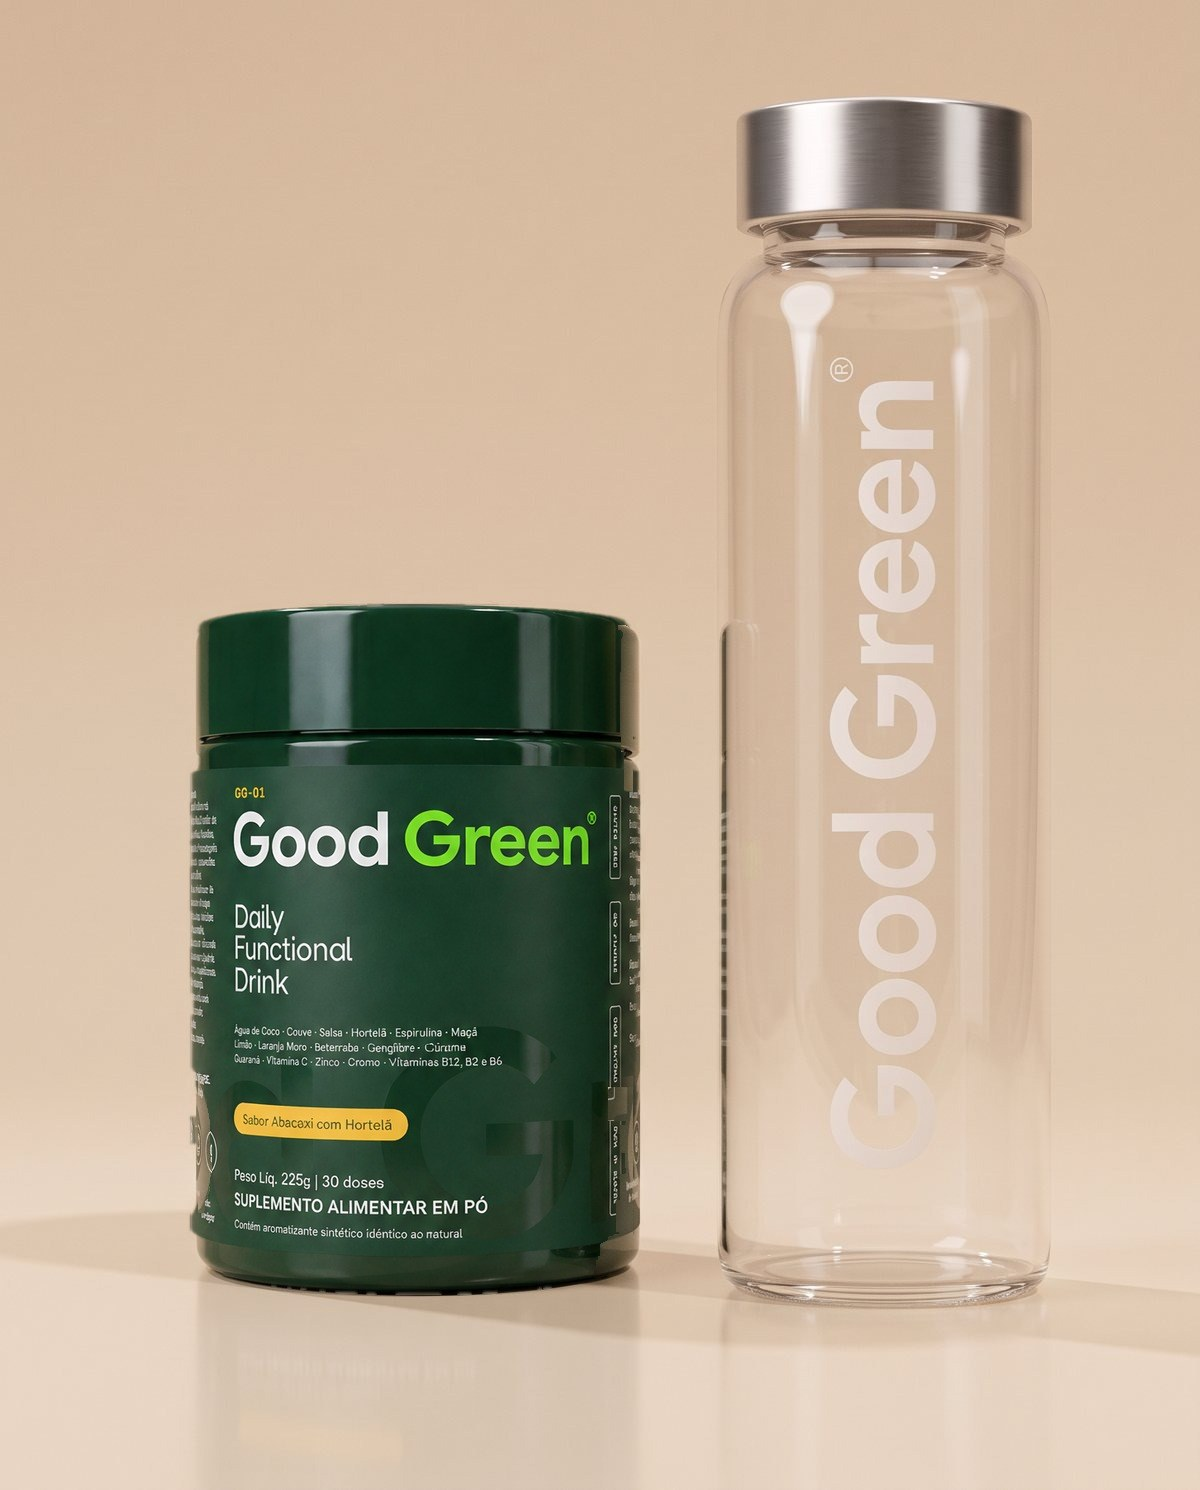
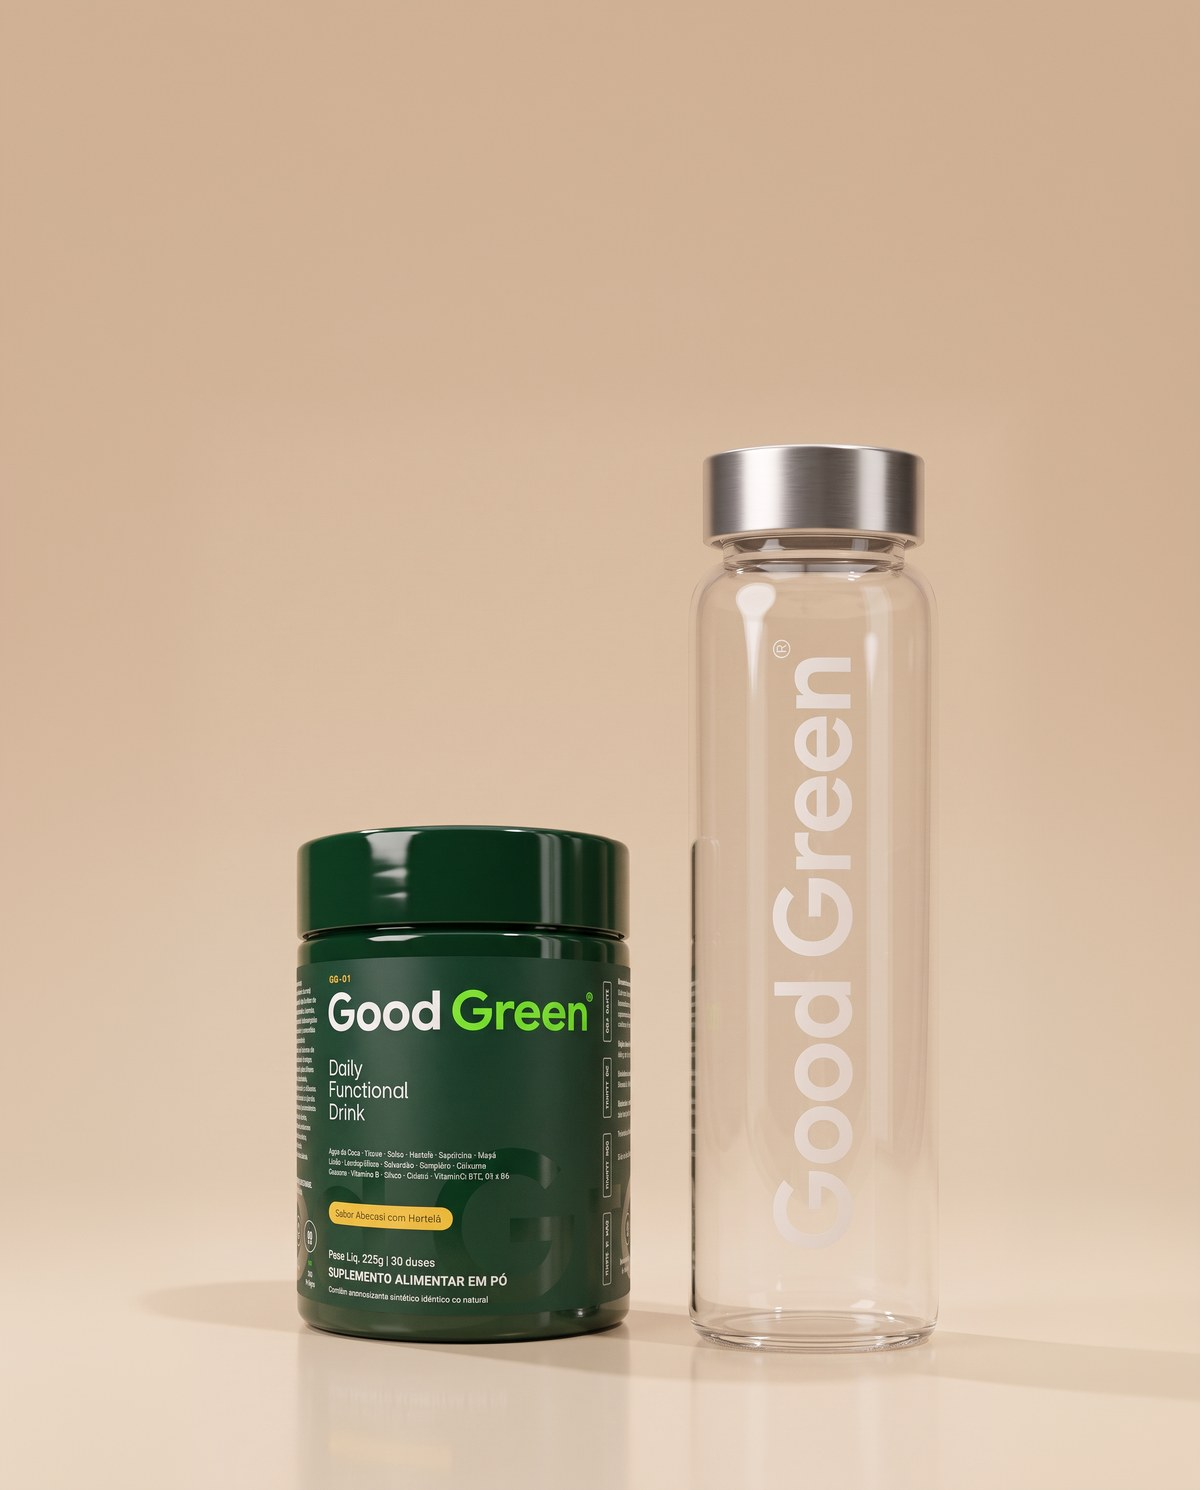
Mobile: fotos enquadradas pelo pote, kit trimestral com 3 potes, quiz como diagnostico
- Celular: fotos com pote na lateral (mesa escura, cafe da manha, banners,
  como usar) ganham object-position pelo pote em vez do centro.
- LP 3 potes: cartao do kit trimestral mostra 3 potes e a garrafa.
- Kit pote + garrafa: foto nova (versao integrada do Figma).
- ST05 volta para a foto original, como no Figma.
- Quiz: etapa de contato vira 'Seu diagnostico esta pronto'; a garrafa
  fica so no resultado.

Changed region(s): [[0.1542, 0.0617, 0.8633, 0.9262], [0.6475, 0.7718, 0.6783, 0.8027]]

diff --git a/quiz.html b/quiz.html
@@ -5,8 +5,8 @@
 <meta name="viewport" content="width=device-width,initial-scale=1">
 <title>Good Green · Barriga estufada, intestino preso, cansaço? Responda e libere a garrafa de brinde</title>
 <meta name="description" content="Responda 4 perguntas sobre o que incomoda no seu dia e libere a garrafa de vidro de brinde no seu primeiro pedido de Good Green.">
-<link rel="stylesheet" href="assets/css/site.css?v=202610251800">
-<link rel="stylesheet" href="assets/css/lp.css?v=202610261600">
+<link rel="stylesheet" href="assets/css/site.css?v=202610261800">
+<link rel="stylesheet" href="assets/css/lp.css?v=202610261800">
 </head>
 <body data-nav="claro" data-page="lp" data-lp="quiz">
 
@@ -70,19 +70,20 @@
     </section>
 
     <section class="qz-passo">
-      <h2>Libere a garrafa de vidro de brinde.</h2>
-      <p class="sub">Deixe seu contato e receba o link com a garrafa de vidro aplicada no seu primeiro pedido, mais o seu resultado.</p>
-      <div class="qz-brinde">
-        <div><img src="assets/img/garrafa-vidro-vazia.jpg" alt=""><div><b>Garrafa de vidro</b><small>Grátis no 1º pedido</small></div></div>
-        <div><img src="assets/img/pote-estudio-claro.jpg" alt=""><div><b>Frete grátis</b><small>No plano trimestral</small></div></div>
-      </div>
+      <h2>Seu diagnóstico está pronto.</h2>
+      <p class="sub">Deixe seu nome e contato para ver o resultado. Ele também chega no seu WhatsApp e no seu e-mail.</p>
+      <ul class="qz-entrega">
+        <li><span class="ok"><i data-ic="check"></i></span>Sua nota de rotina verde, de 0 a 10</li>
+        <li><span class="ok"><i data-ic="check"></i></span>Um plano de 30 dias para o que mais incomoda você</li>
+        <li><span class="ok"><i data-ic="check"></i></span>A dose e o horário que combinam com a sua rotina</li>
+      </ul>
       <form data-qz-form>
         <div class="qz-campos">
           <input type="text" name="nome" placeholder="Seu nome" autocomplete="name" required>
           <input type="tel" name="whatsapp" placeholder="WhatsApp com DDD" inputmode="tel" autocomplete="tel" required>
           <input type="email" name="email" placeholder="Seu e-mail" autocomplete="email" required>
         </div>
-        <button class="btn btn-escuro btn-bloco" type="submit">Liberar minha garrafa <span class="seta">→</span></button>
+        <button class="btn btn-escuro btn-bloco" type="submit">Ver meu resultado <span class="seta">→</span></button>
       </form>
       <div class="qz-pe" style="justify-content:flex-start"><a href="#" class="volta" data-volta>Voltar</a></div>
       <p class="qz-privacidade">Você recebe o aviso do lançamento e as ofertas da marca por WhatsApp e e-mail. Sem spam, e dá para sair quando quiser.</p>

diff --git a/lp-3-potes.html b/lp-3-potes.html
@@ -5,8 +5,8 @@
 <meta name="viewport" content="width=device-width,initial-scale=1">
 <title>Good Green · 3 potes e a garrafa de vidro de brinde</title>
 <meta name="description" content="Assinatura trimestral: 3 potes de Good Green a cada 90 dias, frete grátis e a garrafa de vidro de brinde no primeiro pedido. Sabor abacaxi com hortelã.">
-<link rel="stylesheet" href="assets/css/site.css?v=202610251800">
-<link rel="stylesheet" href="assets/css/lp.css?v=202610261600">
+<link rel="stylesheet" href="assets/css/site.css?v=202610261800">
+<link rel="stylesheet" href="assets/css/lp.css?v=202610261800">
 </head>
 <body data-nav="claro" data-page="lp" data-lp="curta">
 
@@ -37,7 +37,7 @@
     <div class="lp-kit-card">
       <div>
         <span class="lp-eyebrow">Kit trimestral · 3 potes</span>
-        <div class="foto"><img src="assets/img/kit-pote-garrafa.jpg" alt="Kit: pote Good Green e garrafa de vidro" loading="lazy"></div>
+        <div class="foto"><img src="assets/img/kit-3-potes-garrafa.jpg" alt="Kit trimestral: 3 potes Good Green e a garrafa de vidro" loading="lazy"></div>
       </div>
       <div>
         <h3 class="lp-h g3">O que vem na caixa</h3>

diff --git a/feito-no-brasil.html b/feito-no-brasil.html
@@ -4,7 +4,7 @@
 <meta charset="utf-8">
 <meta name="viewport" content="width=device-width,initial-scale=1">
 <title>Origem e qualidade · Good Green</title>
-<link rel="stylesheet" href="assets/css/site.css?v=202610251800">
+<link rel="stylesheet" href="assets/css/site.css?v=202610261800">
 </head>
 <body data-nav="vidro" data-page="origem">
 <section class="heroi-int"><img fetchpriority="high" src="assets/img/mapa-brasil-satelite.jpg" alt=""><div class="wrap"><div><span class="tag neon">Ciência · Origem e qualidade</span><h1 class="d2">Feito no Brasil,<br>do pó ao pote.</h1><p class="lead">Indústria brasileira, lote rastreável em cada pote e todas as informações à vista no rótulo.</p></div><div class="card-produto vidro"><img src="assets/img/pote-recorte.webp" alt="" loading="lazy" decoding="async"><div><span class="tag gg">GG-01</span><b>Good Green <br>Daily Functional <br>Drink</b><small>Abacaxi com hortelã · 30 doses</small><a class="btn btn-neon btn-sm" href="produto.html">Ver produto <span class="seta">→</span></a></div></div></div></section>

diff --git a/ingredientes.html b/ingredientes.html
@@ -4,7 +4,7 @@
 <meta charset="utf-8">
 <meta name="viewport" content="width=device-width,initial-scale=1">
 <title>Ingredientes · Good Green</title>
-<link rel="stylesheet" href="assets/css/site.css?v=202610251800">
+<link rel="stylesheet" href="assets/css/site.css?v=202610261800">
 </head>
 <body data-nav="vidro" data-page="ingredientes">
 <section class="heroi-int"><img fetchpriority="high" src="assets/img/banner-pote-inclinado.jpg?v=202610231745" alt=""><div class="wrap"><div><span class="tag neon">Ciência · Ingredientes</span><h1 class="d2">Tudo o que vai<br>em cada dose.</h1><p class="lead">Ingredientes vegetais, vitaminas e minerais, com a quantidade de cada um na tabela.</p></div><div class="card-produto vidro"><img src="assets/img/pote-recorte.webp" alt="" loading="lazy" decoding="async"><div><span class="tag gg">GG-01</span><b>Good Green <br>Daily Functional <br>Drink</b><small>Abacaxi com hortelã · 30 doses</small><a class="btn btn-neon btn-sm" href="produto.html">Ver produto <span class="seta">→</span></a></div></div></div></section>

diff --git a/assets/css/site.css b/assets/css/site.css
@@ -1104,3 +1104,17 @@ body[data-nav=claro] .logo .l-esc{display:block}
   .legenda-vidro.vidro{background:rgba(15,46,47,.66)}
   .card-produto.vidro{background:rgba(15,46,47,.55);box-shadow:0 18px 40px -20px rgba(0,0,0,.5)}
 }
+
+/* celular: enquadramento das fotos de produto pelo pote, nao pelo centro */
+@media (max-width:700px){
+  img[src*="pote-mesa-escura-copo"]{object-position:74% 50% !important}
+  img[src*="pote-cafe-da-manha"]{object-position:66% 55% !important}
+  img[src*="banner-agua-luz"]{object-position:80% 50% !important}
+  img[src*="banner-estudio-verde"]{object-position:78% 50% !important}
+  img[src*="banner-pedra-folhas"]{object-position:76% 50% !important}
+  img[src*="como-usar-"]{object-position:42% 62% !important}
+  img[src*="desktop-1440-tile-foto."]{object-position:45% 55% !important}
+  img[src*="kit-pote-garrafa"]{object-position:50% 60% !important}
+  img[src*="kit-3-potes-garrafa"]{object-position:50% 100% !important}
+  .heroi-int > img{object-position:50% 50% !important}
+}

diff --git a/lp-ranking.html b/lp-ranking.html
@@ -5,8 +5,8 @@
 <meta name="viewport" content="width=device-width,initial-scale=1">
 <title>Qual é o melhor greens em pó do Brasil? Análise comparativa de 5 fórmulas · 2026</title>
 <meta name="description" content="Analisamos 5 greens em pó vendidos no Brasil pelos mesmos critérios: verdes de verdade por dose, vitaminas declaradas no rótulo, fibras, transparência e custo por porção. Veja o método e o resultado.">>
-<link rel="stylesheet" href="assets/css/site.css?v=202610251800">
-<link rel="stylesheet" href="assets/css/lp.css?v=202610261600">
+<link rel="stylesheet" href="assets/css/site.css?v=202610261800">
+<link rel="stylesheet" href="assets/css/lp.css?v=202610261800">
 </head>
 <body data-nav="claro" data-page="lp" data-lp="ranking">
 

diff --git a/explorar.html b/explorar.html
@@ -4,7 +4,7 @@
 <meta charset="utf-8">
 <meta name="viewport" content="width=device-width,initial-scale=1">
 <title>Explorar · Good Green</title>
-<link rel="stylesheet" href="assets/css/site.css?v=202610251800">
+<link rel="stylesheet" href="assets/css/site.css?v=202610261800">
 </head>
 <body data-nav="claro" data-page="explorar">
 <div class="wrap titulo-pag"><h1 class="d2">Explorar</h1><p class="lead mut">Guias, receitas e artigos para a sua rotina verde.</p><div class="filtros"><button class="on" data-filtro="todos">Todos</button><button data-filtro="rotina">Rotina verde</button><button data-filtro="receitas">Receitas</button><button data-filtro="ciencia">Ciência</button></div></div>

diff --git a/lp-longa.html b/lp-longa.html
@@ -5,8 +5,8 @@
 <meta name="viewport" content="width=device-width,initial-scale=1">
 <title>Good Green · Sua dose diária de verdes, sem liquidificador</title>
 <meta name="description" content="Uma medida de 7,5 g em 300 ml de água: couve, espirulina, gengibre, guaraná, vitaminas e minerais. Garrafa de vidro de brinde no primeiro pedido da assinatura.">
-<link rel="stylesheet" href="assets/css/site.css?v=202610251800">
-<link rel="stylesheet" href="assets/css/lp.css?v=202610261600">
+<link rel="stylesheet" href="assets/css/site.css?v=202610261800">
+<link rel="stylesheet" href="assets/css/lp.css?v=202610261800">
 </head>
 <body data-nav="claro" data-page="lp" data-lp="longa">
 

diff --git a/lp-5-motivos.html b/lp-5-motivos.html
@@ -5,8 +5,8 @@
 <meta name="viewport" content="width=device-width,initial-scale=1">
 <title>5 motivos para trocar o suco verde caseiro por Good Green</title>
 <meta name="description" content="Cada vez mais gente quer colocar verdes na rotina sem passar meia hora na cozinha. Os motivos de quem trocou o liquidificador por uma medida de Good Green.">
-<link rel="stylesheet" href="assets/css/site.css?v=202610251800">
-<link rel="stylesheet" href="assets/css/lp.css?v=202610261600">
+<link rel="stylesheet" href="assets/css/site.css?v=202610261800">
+<link rel="stylesheet" href="assets/css/lp.css?v=202610261800">
 </head>
 <body data-nav="claro" data-page="lp" data-lp="publi">
 

diff --git a/lp-oferta.html b/lp-oferta.html
@@ -5,8 +5,8 @@
 <meta name="viewport" content="width=device-width,initial-scale=1">
 <title>Good Green · Garrafa de vidro de brinde no 1º pedido</title>
 <meta name="description" content="Todo mundo adia o suco verde. Good Green resolve em 30 segundos: uma medida em 300 ml de água. Garrafa de vidro de brinde no primeiro pedido da assinatura.">
-<link rel="stylesheet" href="assets/css/site.css?v=202610251800">
-<link rel="stylesheet" href="assets/css/lp.css?v=202610261600">
+<link rel="stylesheet" href="assets/css/site.css?v=202610261800">
+<link rel="stylesheet" href="assets/css/lp.css?v=202610261800">
 </head>
 <body data-nav="claro" data-page="lp" data-lp="oferta">
 

diff --git a/assets/css/lp.css b/assets/css/lp.css
@@ -384,3 +384,6 @@ body[data-lp] .nav{justify-content:space-between}
 .qz-porque dt{font-weight:500;font-size:16px;line-height:1.35;color:var(--verde)}
 .qz-porque dd{font-size:15px;line-height:1.5;margin:0}
 @media (max-width:600px){.qz-porque dl div{grid-template-columns:1fr}}
+.qz-entrega{list-style:none;display:grid;gap:12px;background:#fff;border-radius:var(--r-md);padding:20px 22px;margin:20px 0;font-size:16px;line-height:1.4}
+.qz-entrega li{display:flex;gap:10px;align-items:center}
+.qz-entrega .ok{flex:none}

diff --git a/index.html b/index.html
@@ -5,7 +5,7 @@
 <meta name="viewport" content="width=device-width,initial-scale=1">
 <title>Good Green · Seus verdes, sem esforço</title>
 <meta name="description" content="Good Green GG-01: bebida verde em pó com vitaminas, minerais, fibras e ingredientes vegetais, sabor abacaxi com hortelã.">
-<link rel="stylesheet" href="assets/css/site.css?v=202610251800">
+<link rel="stylesheet" href="assets/css/site.css?v=202610261800">
 </head>
 <body data-nav="vidro" data-page="home">
 
